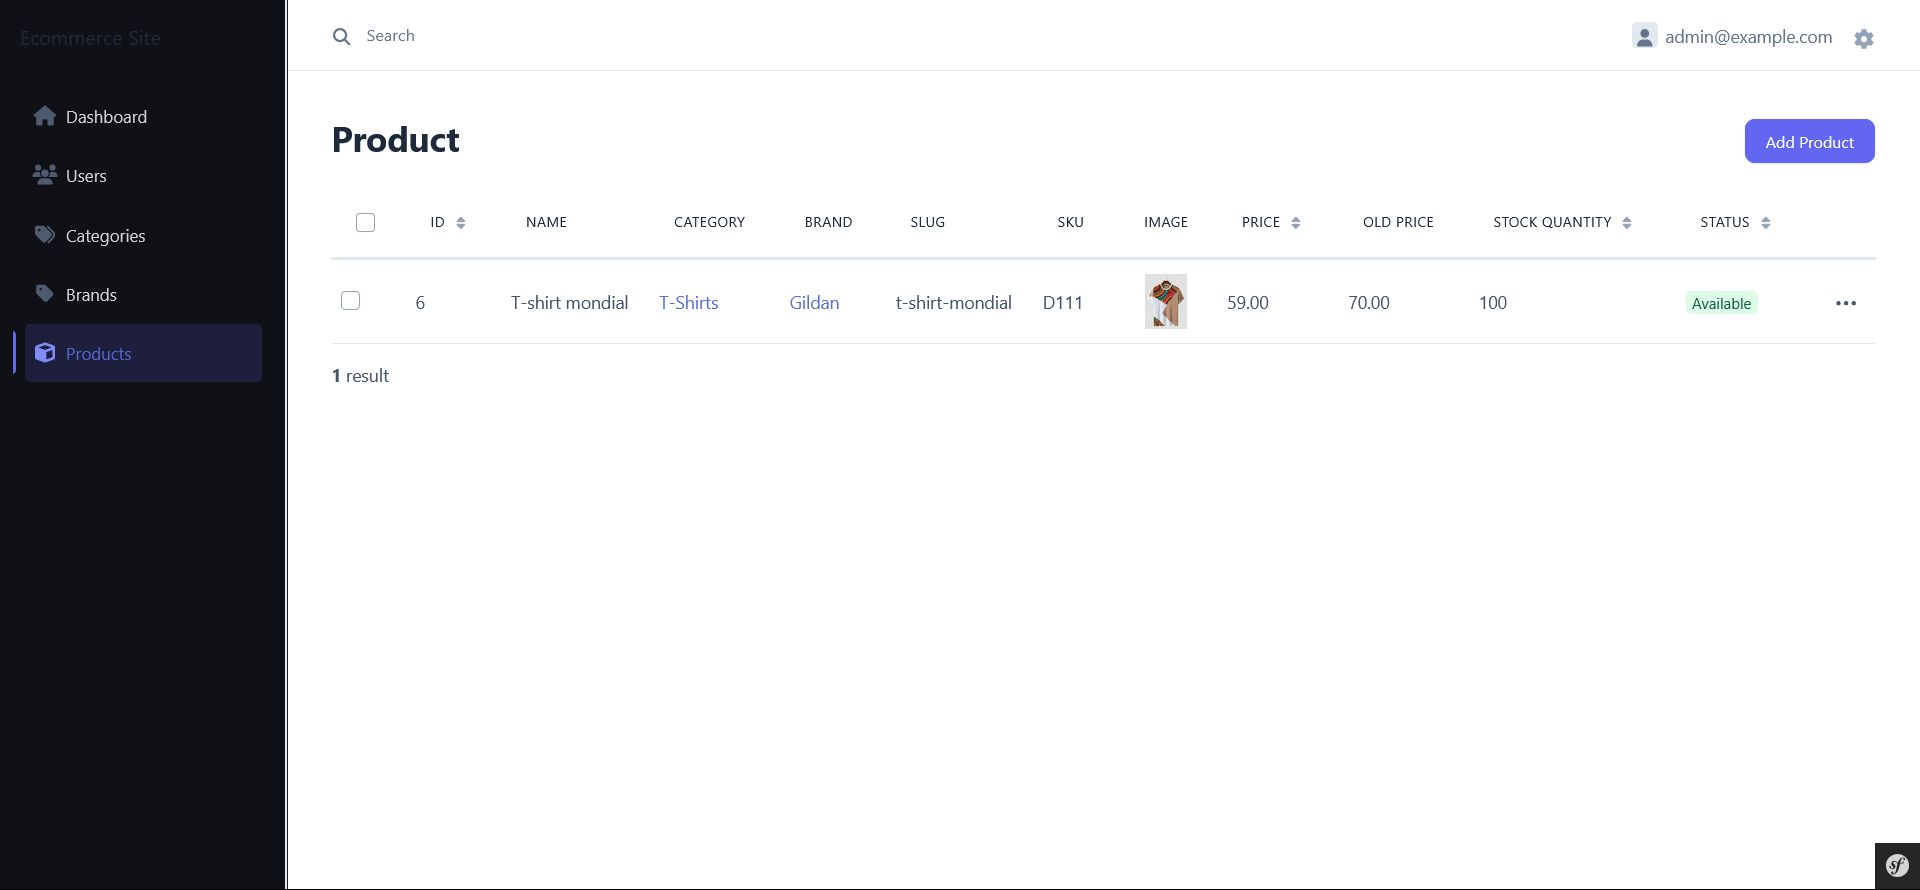
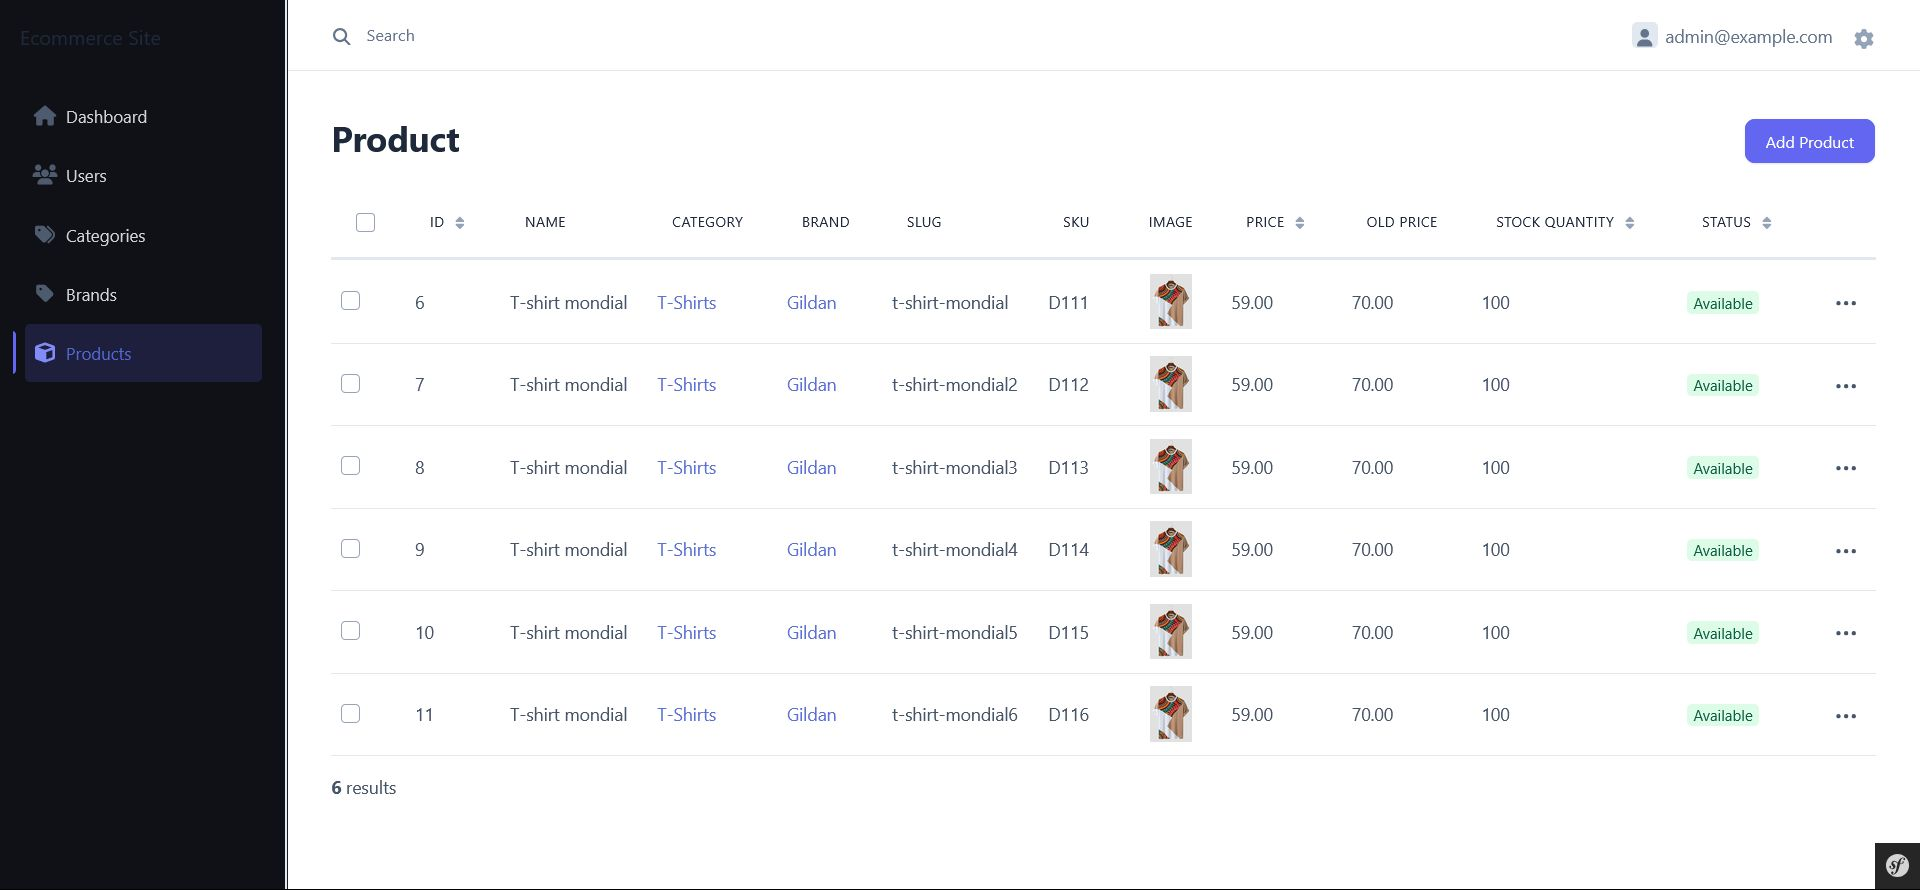
Add Screenshots in readme

diff --git a/readme.md b/readme.md
@@ -135,13 +135,13 @@ npm run dev-server
 ## Screenshots
 
 ### Products page 
-![Products page](.readme/screenshots/products-page.png)
+![Products page](screenshots/products-page.jpg)
 
 ### Product view
-![Product view](.readme/screenshots/product-view.jpg)
+![Product view](screenshots/product-view.jpg)
 
 ### Manage Products (EasyAdmin)
-![Manage Products](.readme/screenshots/admin-products.jpg)
+![Manage Products](screenshots/admin-products.jpg)
 
 
 ## API Authentication